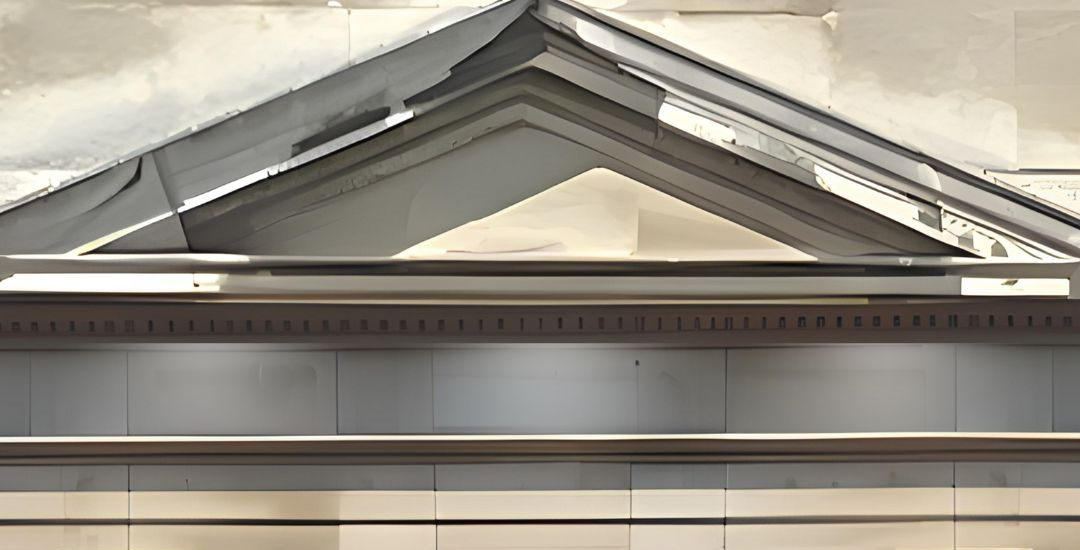
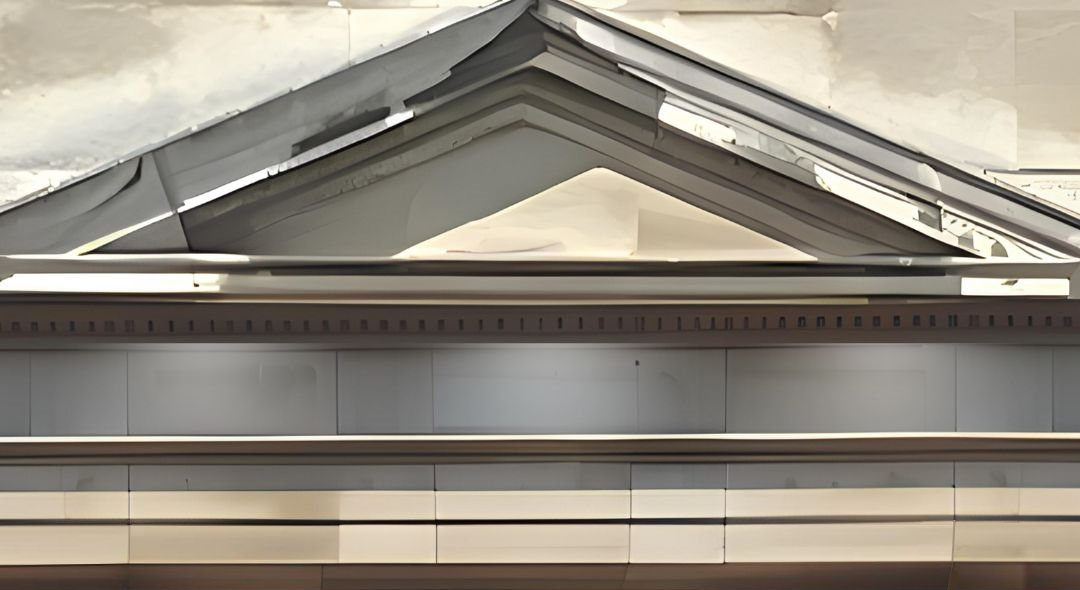
replace mobile view header image

diff --git a/article2.html b/article2.html
@@ -331,6 +331,11 @@
           https://www.vogue.com/article/virgil-abloh-interview-off-white-louis-vuitton
         </p>
       </div>
+      <img
+        class="building-botom-mobile"
+        src="media/building_bottom_mobile2.jpg"
+        alt="Logo"
+      />
     </div>
   </body>
 </html>

diff --git a/styles.css b/styles.css
@@ -379,7 +379,7 @@ input[type="text"] {
     height: 100%;
     width: 90%;
     overflow: auto;
-    margin-top: 9.4%;
+    margin-top: 13.8%;
     margin-left: 0px;
     padding: 3% 5% 0 5%;
     background-color: black;
